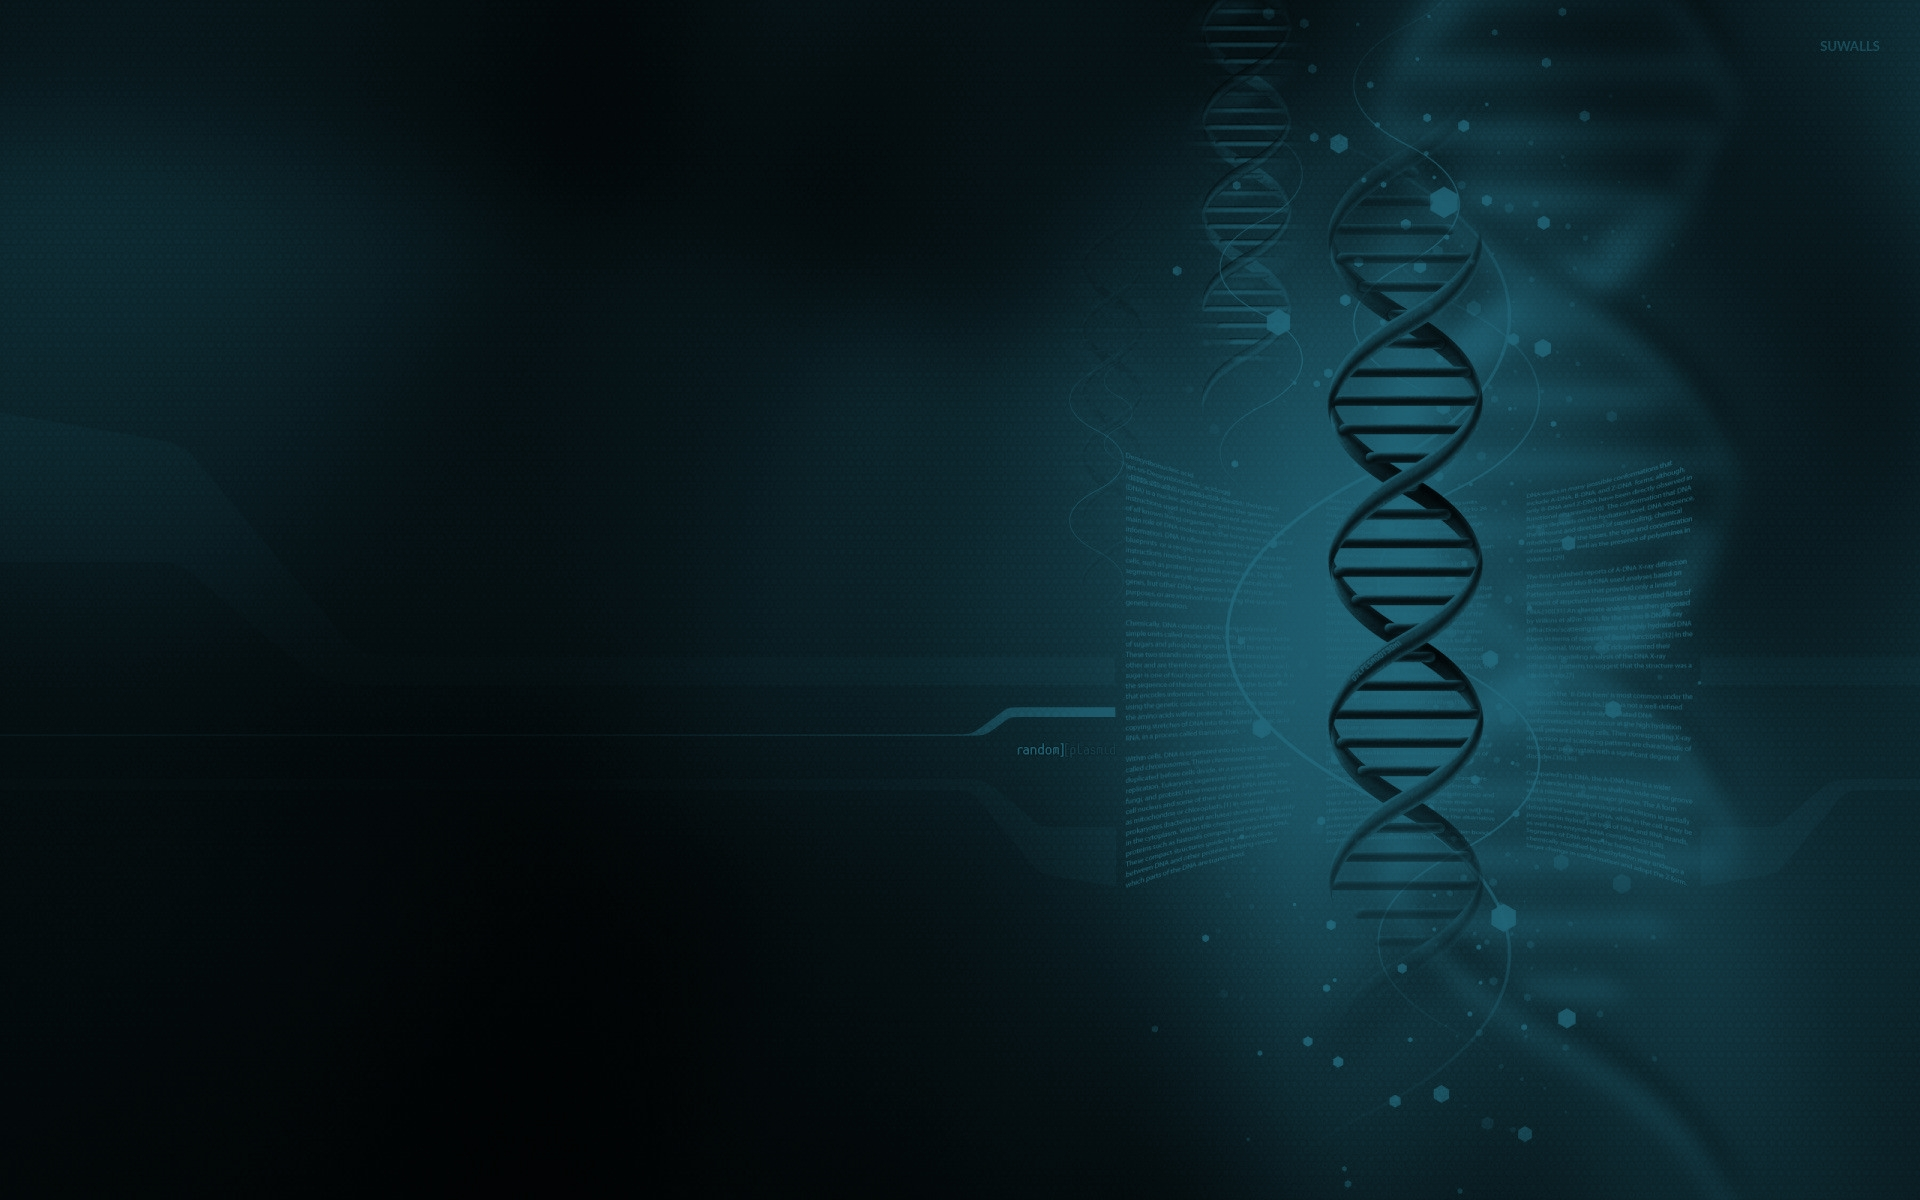
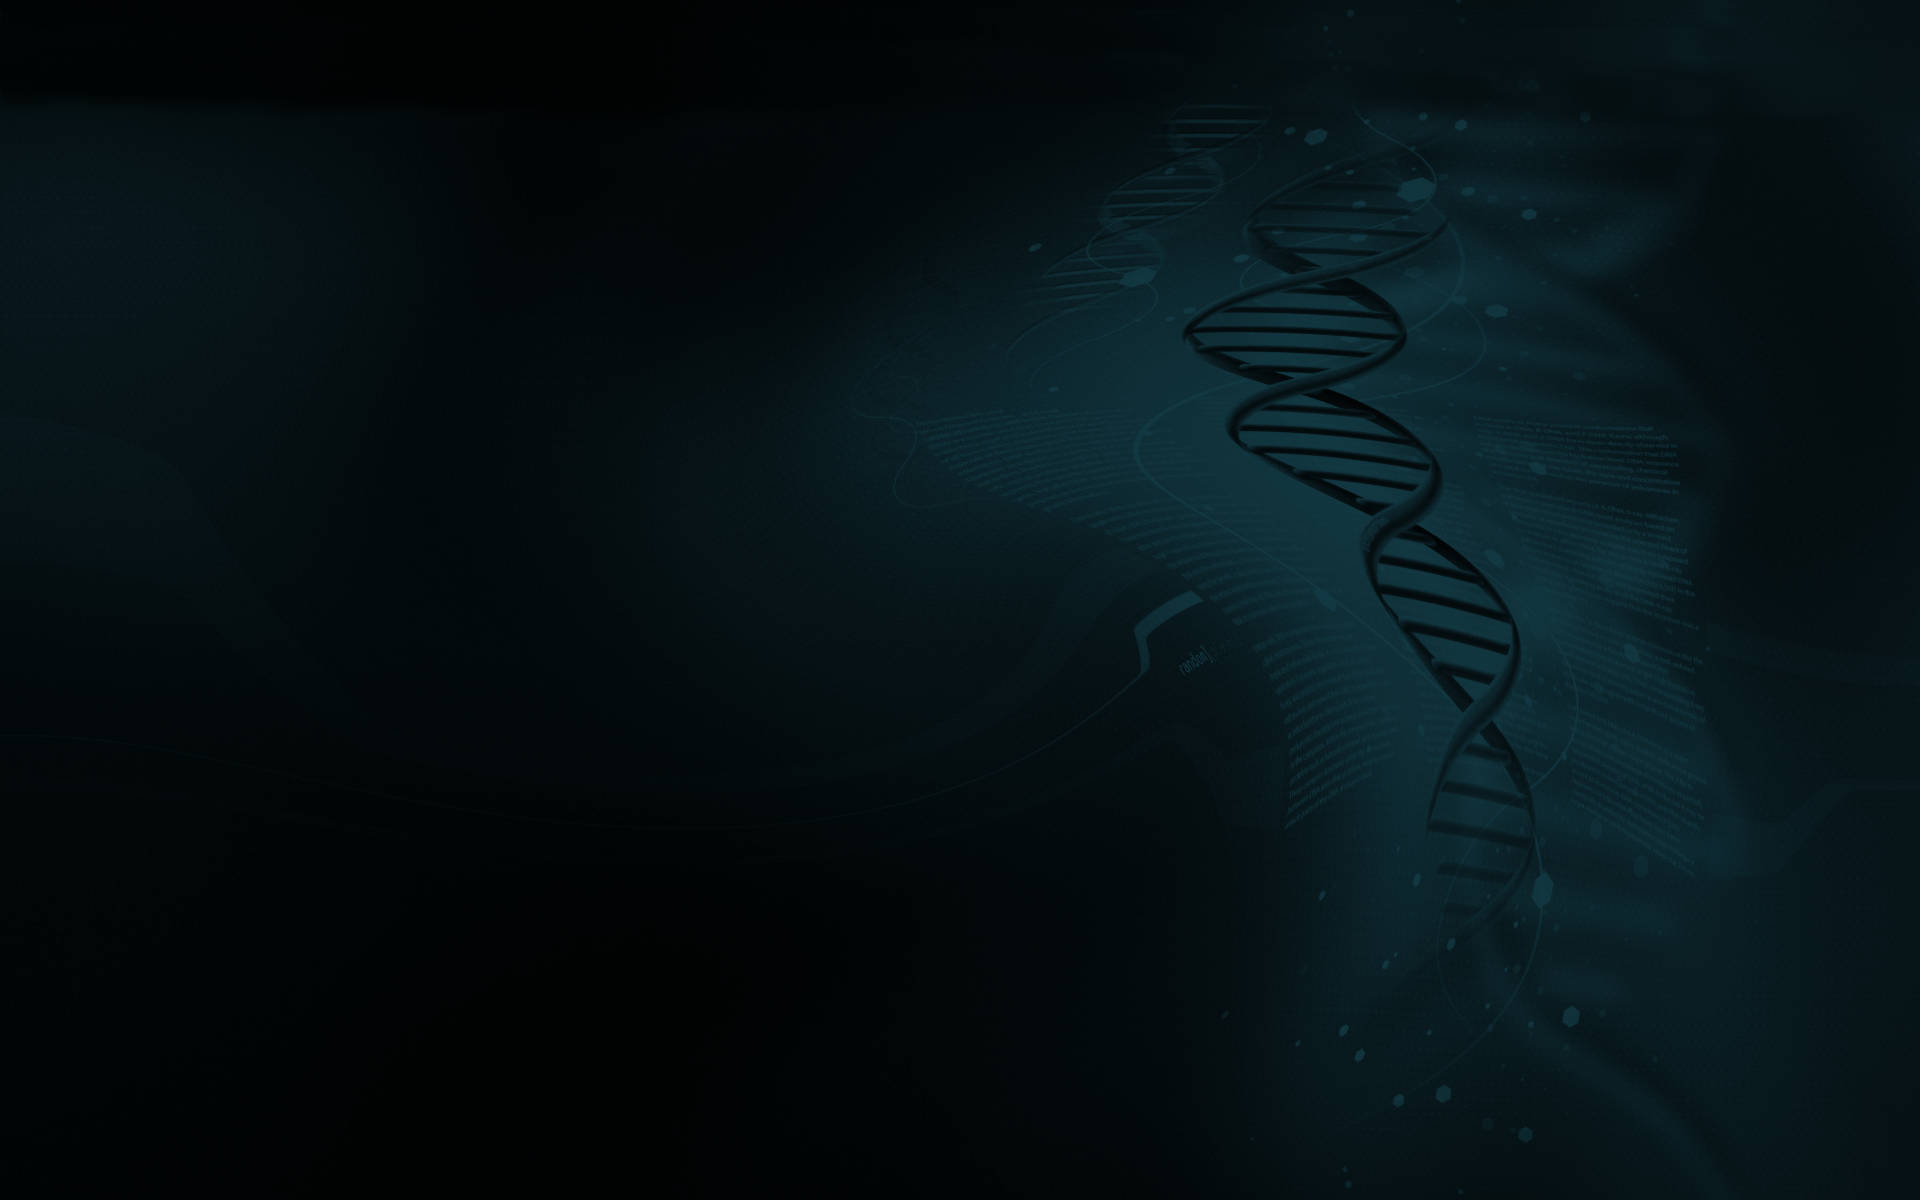
Add files via upload

Changed region(s): [[0.4688, 0.0, 0.9688, 1.0], [0.0, 0.0308, 0.125, 0.0925], [0.9375, 0.0, 1.0, 0.0925]]

diff --git a/Biotech-file/Biotech.css b/Biotech-file/Biotech.css
@@ -12,7 +12,7 @@
 * {font-family: myFirstFont;}
           
 /* Elements with class */
-.biotechbody {background-color: rgb(0, 15, 22) !important; background-image: url("images/background.jpg"); margin-left: 0; margin-top: 0;}
+.biotechbody {background-color: rgb(0, 15, 22) !important; background-image: url("images/background.jpg"); background-position: center;}
 .logomenu{image-rendering: optimizeSpeed; align-items: center; width: 553; height: 180; border: 0;}
 .sidenavtext {font-family: Tahoma, Verdana, sans-serif; font-size: 18px; font-weight: normal; color: whitesmoke;}
 .link {font-family: Tahoma, Verdana, sans-serif;}
